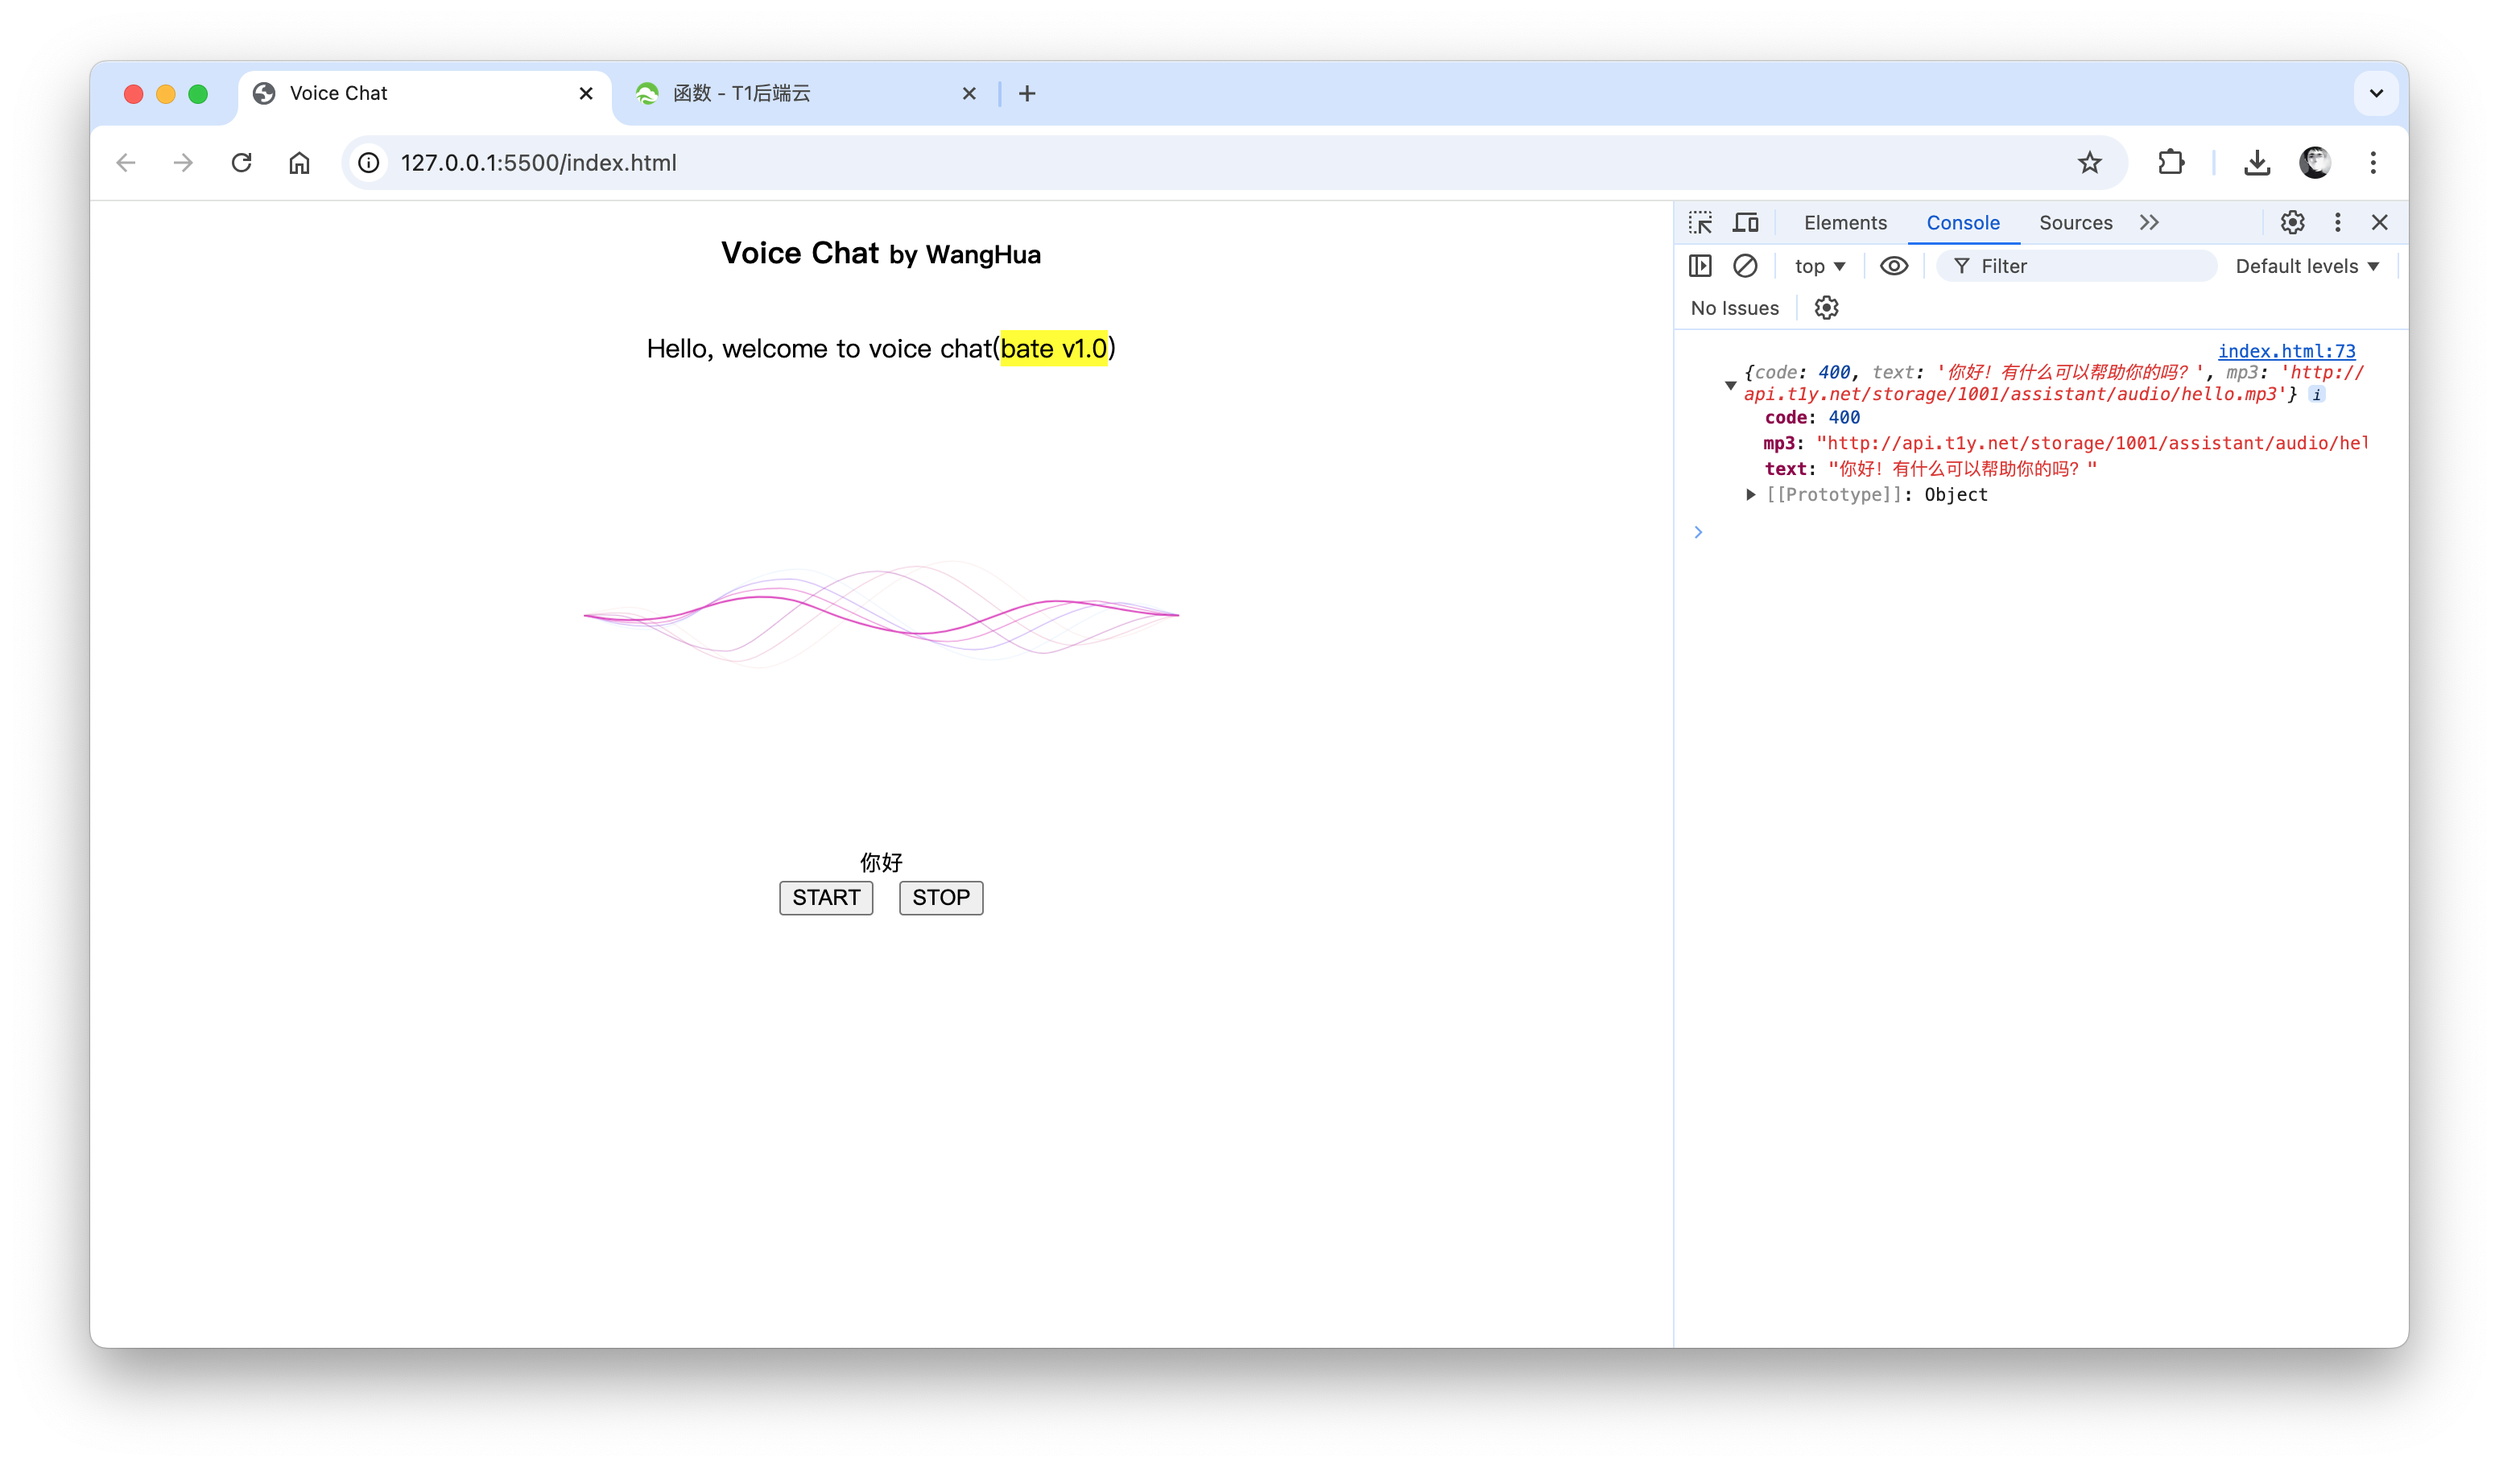
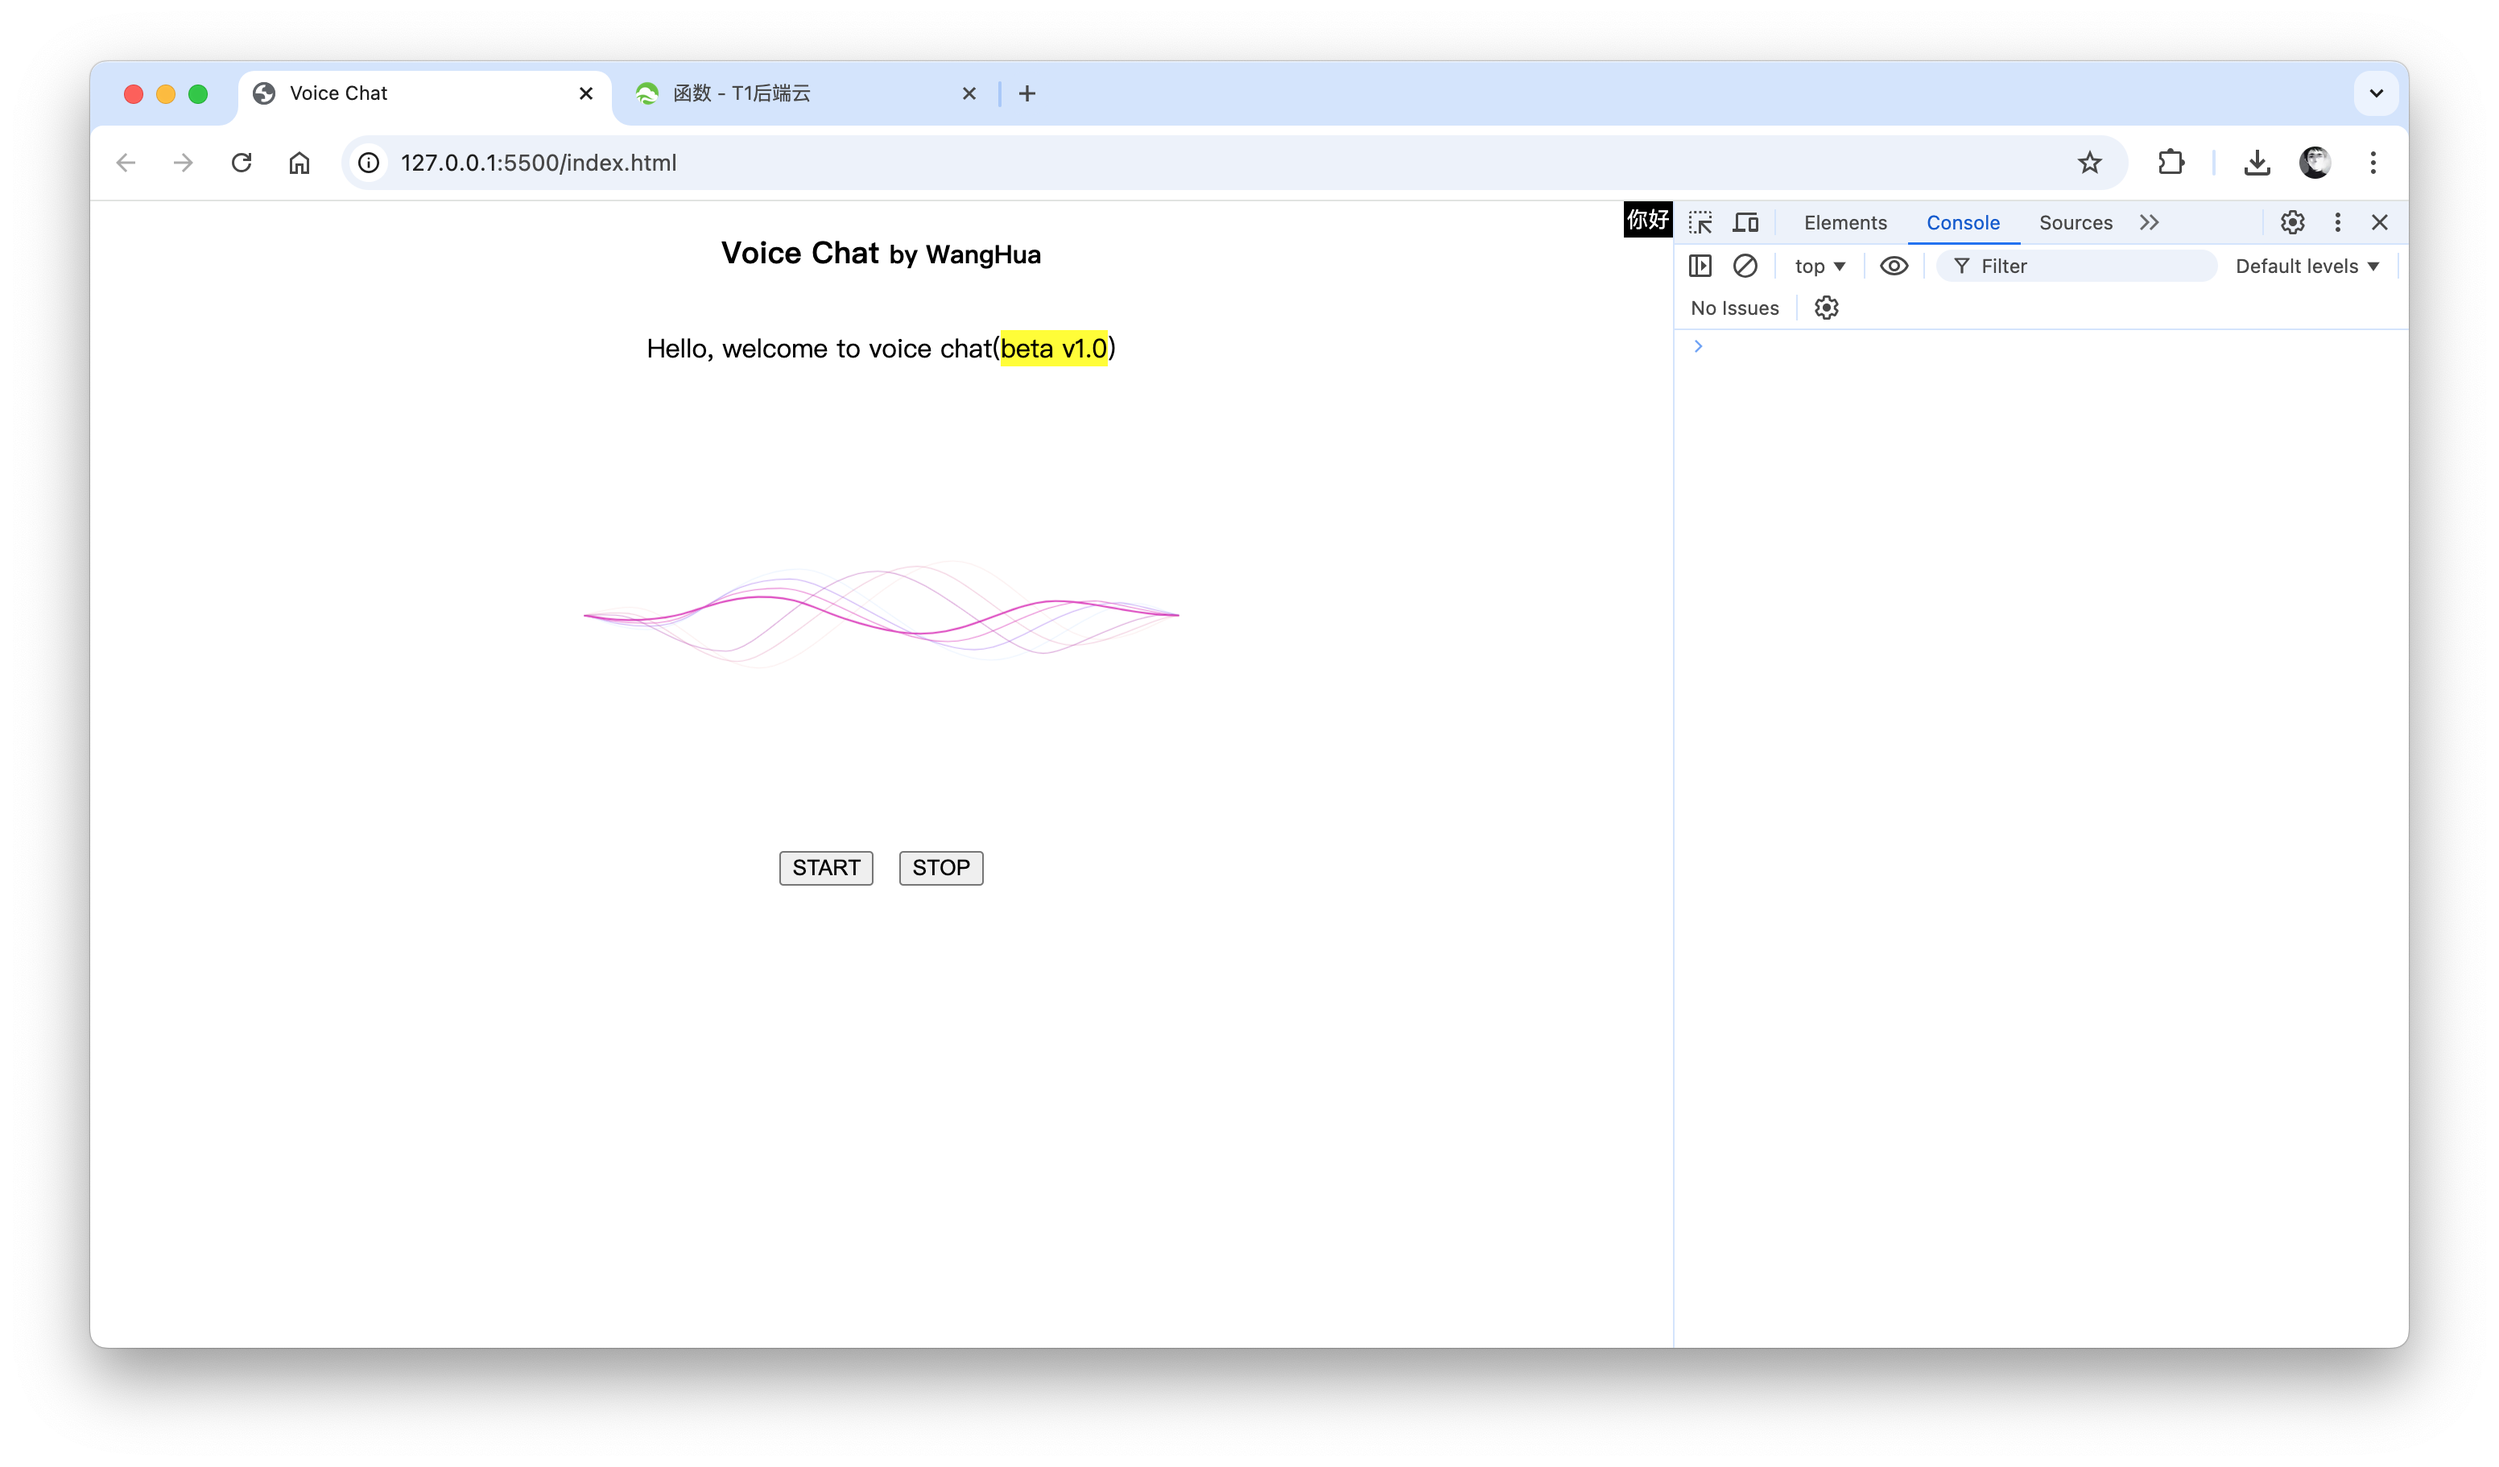
first commit

Changed region(s): [[0.6875, 0.2151, 0.9375, 0.3381], [0.3125, 0.584, 0.4062, 0.6147], [0.6562, 0.1229, 0.6875, 0.1844]]

diff --git a/index.html b/index.html
@@ -9,15 +9,26 @@
     <script src="js/axios.min.js"></script>
   </head>
   <body>
+    <small
+      id="transcript"
+      style="
+        position: absolute;
+        top: 0;
+        right: 0;
+        color: white;
+        padding: 2px;
+        background-color: black;
+      "
+      >说点什么</small
+    >
     <div class="center">
       <h3>Voice Chat&nbsp;<small>by WangHua</small></h3>
       <p>
         Hello, welcome to voice chat(<span style="background-color: yellow"
-          >bate v1.0</span
+          >beta v1.0</span
         >)
       </p>
       <div id="lottie-animation" style="width: 370px; height: auto"></div>
-      <small id="transcript">(RESULT)</small>
       <div>
         <button id="startBtn">START</button>
         &nbsp;
@@ -57,7 +68,7 @@
         recognition.onstart = () => {
           isRecognizing = true;
           animation.play();
-          transcriptElement.textContent = "Identifying...";
+          transcriptElement.textContent = "识别中...";
         };
 
         // 识别结束
@@ -71,6 +82,7 @@
             )
             .then((response) => {
               console.log(response.data);
+              transcriptElement.textContent = response.data.text;
               var audio = new Audio(response.data.mp3);
               audio.play();
               /*
